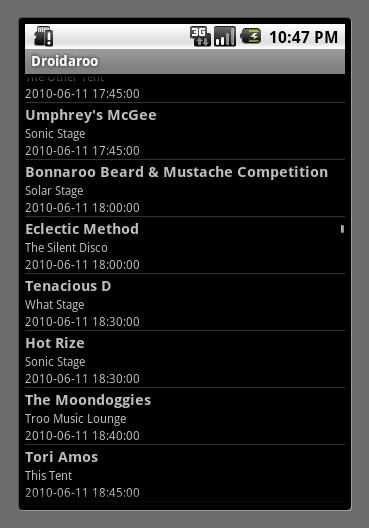
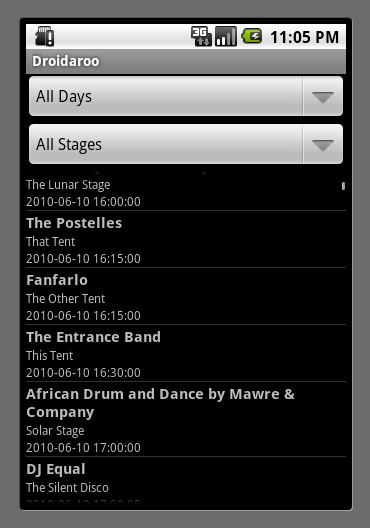
Add spinners to (eventually) control date/venue filters in bandsList
This required a new table in the DB to access the list of venues
DB upgrading is kind of a pain, so for now just copy it over each time

diff --git a/droidaroo/src/com/bpittman/droidaroo/BandsList.java b/droidaroo/src/com/bpittman/droidaroo/BandsList.java
@@ -6,12 +6,18 @@ import android.app.ListActivity;
 import android.database.sqlite.SQLiteException;
 import android.database.Cursor;
 import android.os.Bundle;
+import android.widget.ArrayAdapter;
 import android.widget.SimpleCursorAdapter;
+import android.widget.Spinner;
 
 
 public class BandsList extends ListActivity {
 
 	private DataBaseHelper myDbHelper;
+	private Spinner daySpinner;
+	private Spinner venueSpinner;
+	private ArrayAdapter<String> daySpinnerAdapter;
+	private ArrayAdapter<String> venueSpinnerAdapter;
 
     /** Called when the activity is first created. */
 	@Override
@@ -19,6 +25,8 @@ public class BandsList extends ListActivity {
 		super.onCreate(savedInstanceState);
 		setContentView(R.layout.bands);
 		myDbHelper = new DataBaseHelper(this);
+		daySpinner = (Spinner)findViewById(R.id.daySpinner);
+		venueSpinner = (Spinner)findViewById(R.id.venueSpinner);
 
 		try {
 			myDbHelper.createDataBase();
@@ -34,6 +42,28 @@ public class BandsList extends ListActivity {
 	}
 
     private void fillData() {
+        //fill the daySpinner
+        String[] days = new String[] { "All Days", "Thursday", "Friday", "Saturday", "Sunday" };
+        daySpinnerAdapter = new ArrayAdapter<String>(this, android.R.layout.simple_spinner_item, days);
+        daySpinnerAdapter.setDropDownViewResource(android.R.layout.simple_spinner_dropdown_item);
+        daySpinner.setAdapter(daySpinnerAdapter);
+
+        //fill the venueSpinner
+        venueSpinnerAdapter = new ArrayAdapter<String>(this, android.R.layout.simple_spinner_item);
+        venueSpinnerAdapter.setDropDownViewResource(android.R.layout.simple_spinner_dropdown_item);
+        venueSpinner.setAdapter(venueSpinnerAdapter);
+        venueSpinnerAdapter.add("Major Stages");
+        venueSpinnerAdapter.add("All Stages");
+        Cursor venuesCursor = myDbHelper.getVenues();
+        int venueID = venuesCursor.getColumnIndexOrThrow("venueId");
+        if (venuesCursor.getCount() > 0) {
+            if (venuesCursor.moveToFirst()) {
+                do {
+                    venueSpinnerAdapter.add(venuesCursor.getString(venueID));
+                } while(venuesCursor.moveToNext());
+            }
+        }
+
         // Get all of the bands from the database and create the item list
         Cursor c = myDbHelper.getBands();
         startManagingCursor(c);

diff --git a/droidaroo/src/com/bpittman/droidaroo/DataBaseHelper.java b/droidaroo/src/com/bpittman/droidaroo/DataBaseHelper.java
@@ -34,17 +34,18 @@ public class DataBaseHelper extends SQLiteOpenHelper{
 	public void createDataBase() throws IOException{
 		boolean dbExist = checkDataBase();
 		if(dbExist){
-			//do nothing - database already exist
-		}else{
-			//By calling this method and empty database will be created into the default system path
-			//of your application so we are gonna be able to overwrite that database with our database.
-			this.getReadableDatabase();
-			try {
-				copyDataBase();
-			} catch (IOException e) {
-				throw new Error("Error copying database");
-			}
+			//delete and recreate the DB every time... inefficient but easier than using onUpgrade
+			this.myContext.deleteDatabase(DB_NAME);
 		}
+		//By calling this method and empty database will be created into the default system path
+		//of your application so we are gonna be able to overwrite that database with our database.
+		this.getReadableDatabase();
+		try {
+			copyDataBase();
+		} catch (IOException e) {
+			throw new Error("Error copying database");
+		}
+
 	}
 
 	/**
@@ -121,5 +122,8 @@ public class DataBaseHelper extends SQLiteOpenHelper{
 		return myDataBase.query(true,"events", new String[] {"_id","line1","venueId","start"}, null, null, null, null, "start", null);
 	}
 
+	public Cursor getVenues() {
+		return myDataBase.query(true,"venues", new String[] {"_id","venueId"}, null, null, null, null, "_id", null);
+	}
 }
 

diff --git a/scraper/scraper.py b/scraper/scraper.py
@@ -12,14 +12,14 @@ for venueID in rawVenues:
 conn = sqlite3.connect('../droidaroo/res/raw/eventdb')
 c = conn.cursor()
 
-# Create table
+# Create tables
 c.execute('drop table if exists android_metadata')
 c.execute('create table android_metadata ("locale" TEXT DEFAULT "en_US")')
 c.execute('insert into android_metadata values ("en_US")')
 
 c.execute('drop table if exists events')
 c.execute('''create table events
-(_id int, venueId int,
+(_id int, venueId text,
 line1 text, line2 text,
 start text, duration text)''')
 
@@ -29,7 +29,18 @@ for eventID in events:
         events[eventID]["start"],events[eventID]["duration"])
    c.execute('insert into events values (?,?,?,?,?,?)',t)
 
+c.execute('drop table if exists venues')
+c.execute('create table venues (_id int, venueId text)')
+
+for venueID in venues:
+   t = (venueID, venues[venueID])
+   c.execute('insert into venues values (?,?)',t)
+
 c.execute('select * from events')
+for row in c:
+   print row
+
+c.execute('select * from venues')
 for row in c:
    print row
 
